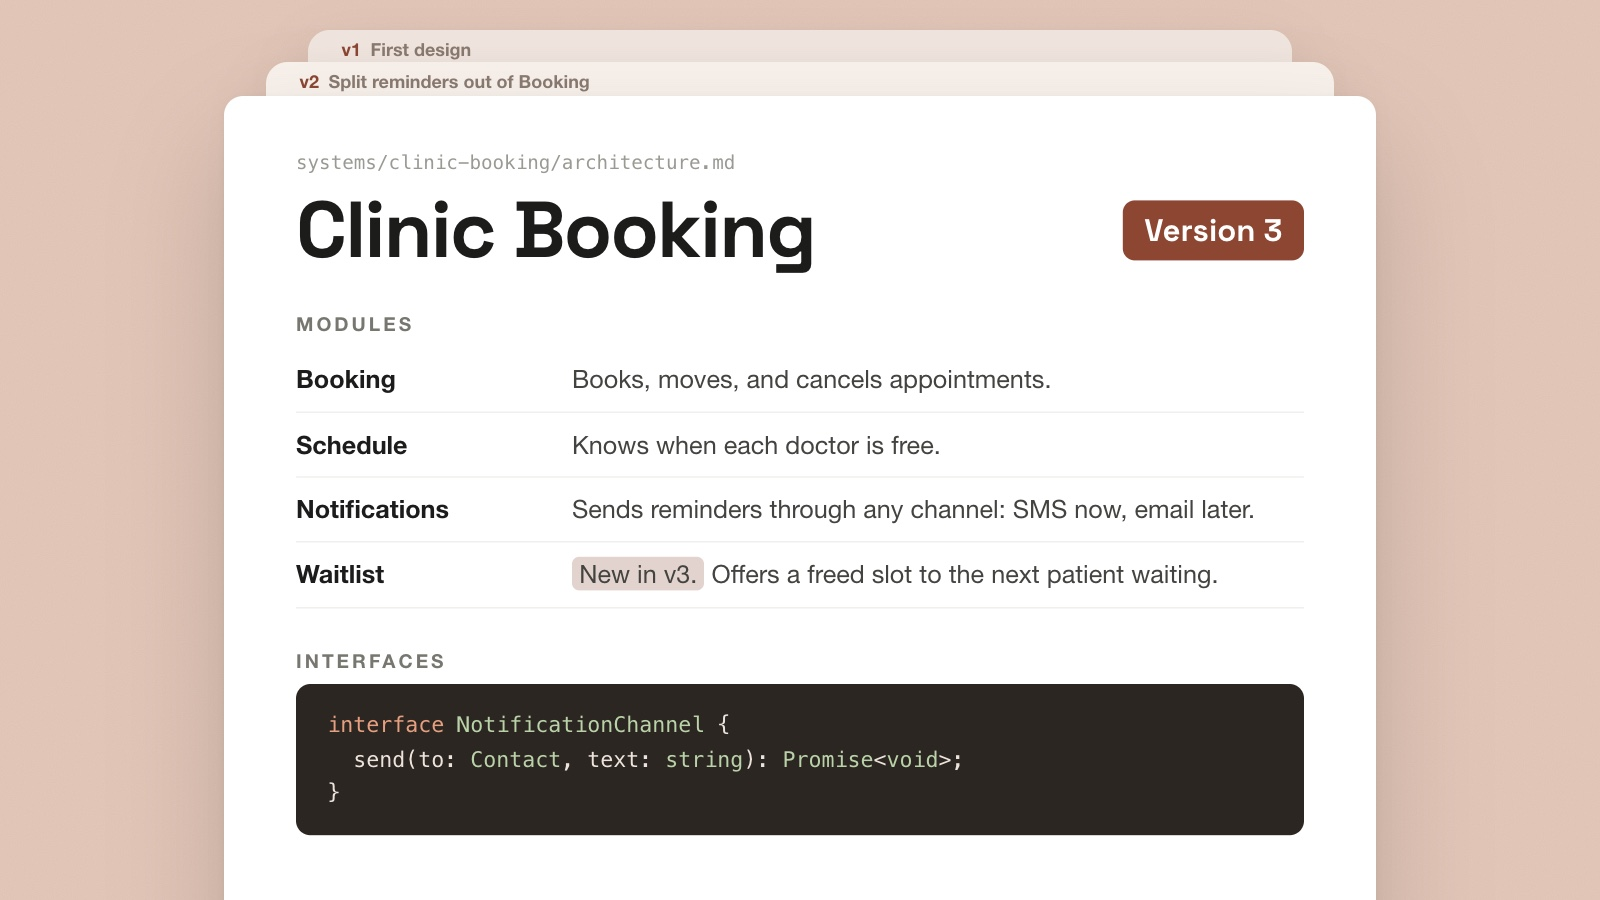
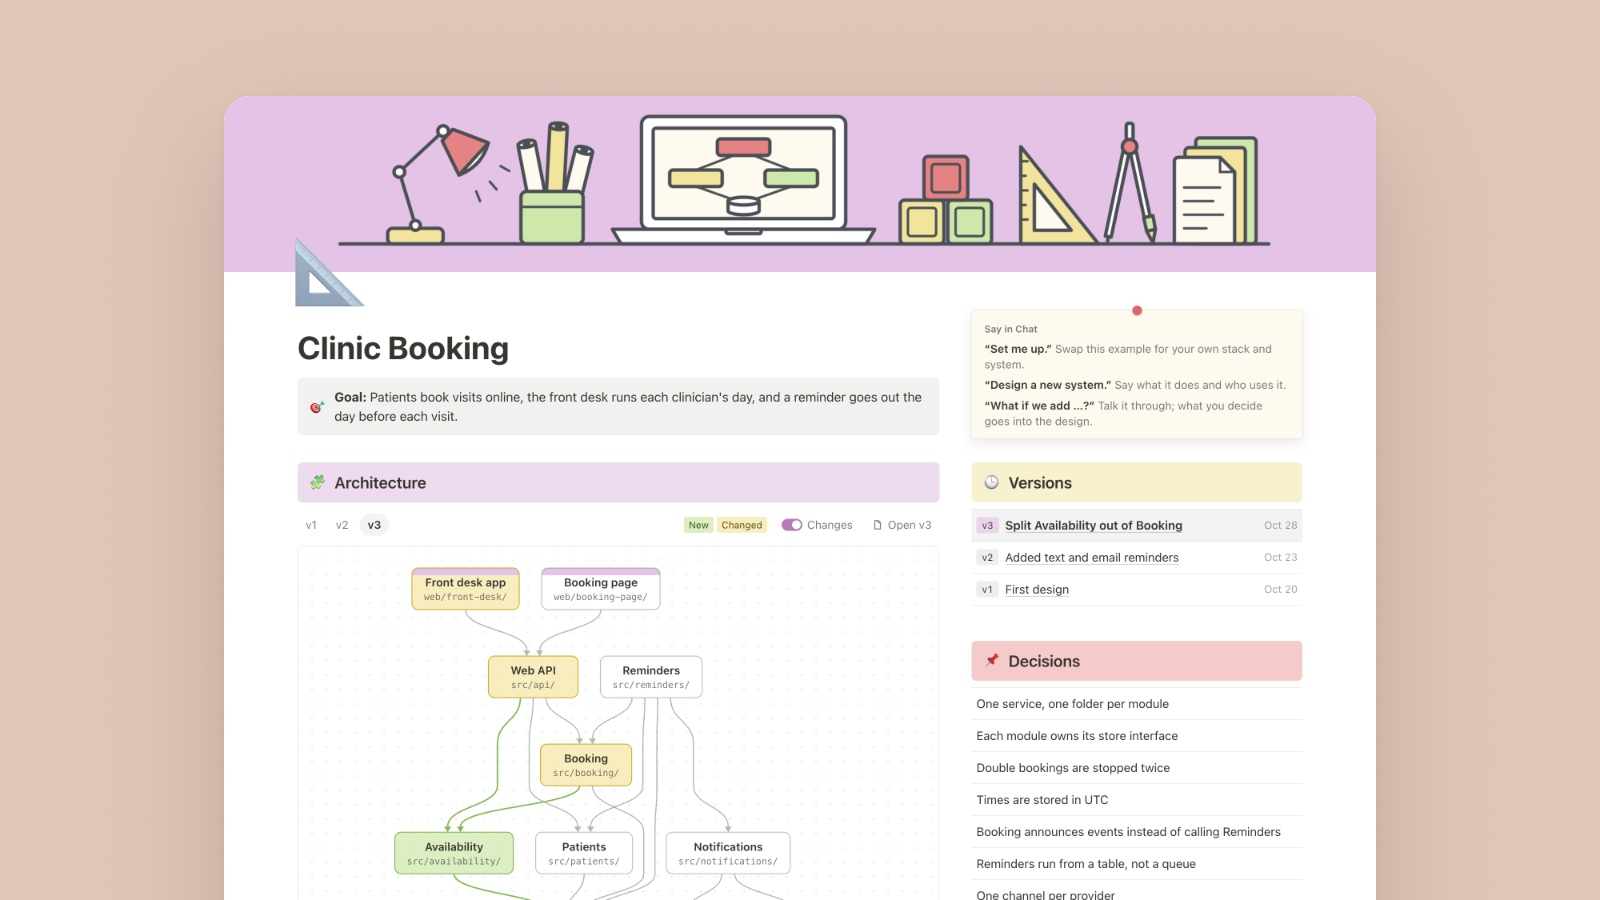
Show Software Architect's dashboard as its cover
The template now has a dashboard that draws each system as an
architecture diagram. The cover is a screenshot of it, with the example's
version 3, and the introduction says what the dashboard shows. Its banner
color, orchid, is recorded in the covers table.

diff --git a/covers/software-architect.html b/covers/software-architect.html
@@ -4,42 +4,13 @@
 <meta charset="utf-8">
 <link rel="stylesheet" href="cover.css">
 <style>
-  /* Earlier versions stack behind the current one, each peeking out as a tab. */
-  .page { position: absolute; left: 50%; height: 760px; transform: translateX(-50%) scale(1.2); transform-origin: top center;
-    border-radius: 18px; padding: 7px 28px; font-size: 15px; font-weight: 600; color: #8a7a70;
-    box-shadow: 0 20px 50px rgba(30, 30, 24, 0.12); }
-  .page.v1 { top: 30px; width: 820px; background: #f1e6df; }
-  .page.v2 { top: 62px; width: 890px; background: #f8f1ec; }
-  .page b { color: var(--deep); margin-right: 8px; }
-  .thing { width: 960px; border-radius: 16px; padding: 46px 60px; }
-  .path { font-family: Menlo, monospace; font-size: 16px; color: #9a9a92; }
-  .title { display: flex; align-items: center; justify-content: space-between; margin-top: 12px; }
-  h1 { font-family: "Space Grotesk", sans-serif; font-weight: 700; font-size: 66px; letter-spacing: -1.5px; line-height: 1.05; }
-  .version { background: var(--deep); color: #fff; font-family: "Space Grotesk", sans-serif; font-weight: 700; font-size: 26px; padding: 8px 18px; border-radius: 10px; }
-  h2 { font-size: 16px; font-weight: 700; letter-spacing: 2.5px; text-transform: uppercase; color: #77776f; margin: 34px 0 10px; }
-  .module { display: grid; grid-template-columns: 210px 1fr; gap: 20px; padding: 12px 0; border-bottom: 1.5px solid #ecebe6; font-size: 21px; line-height: 1.4; color: #44443f; }
-  .module b { color: #1c1c1a; }
-  pre { margin-top: 6px; background: #2c2622; color: #ece4dc; border-radius: 12px; padding: 20px 26px; font-family: Menlo, monospace; font-size: 18px; line-height: 1.6; }
-  .k { color: #e7a07f; }
-  .t { color: #b9d3a8; }
+  /* The thing is the architecture dashboard itself: a real screenshot at 1440 × 1080, taken at 2x. */
+  .thing { width: 960px; min-height: 0; overflow: hidden; }
+  .thing img { display: block; width: 100%; }
 </style>
 </head>
 <body class="clay">
   <div class="grain"></div>
-  <div class="page v1"><b>v1</b>First design</div>
-  <div class="page v2"><b>v2</b>Split reminders out of Booking</div>
-  <div class="thing">
-    <div class="path">systems/clinic-booking/architecture.md</div>
-    <div class="title"><h1>Clinic Booking</h1><span class="version">Version 3</span></div>
-    <h2>Modules</h2>
-    <div class="module"><b>Booking</b><span>Books, moves, and cancels appointments.</span></div>
-    <div class="module"><b>Schedule</b><span>Knows when each doctor is free.</span></div>
-    <div class="module"><b>Notifications</b><span>Sends reminders through any channel: SMS now, email later.</span></div>
-    <div class="module"><b>Waitlist</b><span><mark>New in v3.</mark> Offers a freed slot to the next patient waiting.</span></div>
-    <h2>Interfaces</h2>
-<pre><span class="k">interface</span> <span class="t">NotificationChannel</span> {
-  send(to: <span class="t">Contact</span>, text: <span class="t">string</span>): <span class="t">Promise</span>&lt;<span class="t">void</span>&gt;;
-}</pre>
-  </div>
+  <div class="thing"><img src="software-architect.png" alt=""></div>
 </body>
 </html>

diff --git a/covers/README.md b/covers/README.md
@@ -21,5 +21,5 @@ sips -s format jpeg -s formatOptions 90 cover.png --out wikis/<id>/screenshots/c
 | paper-tracker-for-industry | violet, weekly digest | — |
 | llm-wiki-for-papers | green, screenshot of the wiki's dashboard: topics, papers, and progress | blue `#a6cbe8` |
 | poc-deck-builder | blue, results slide with each success criterion against its target | — |
-| software-architect | clay, architecture doc with its earlier versions stacked behind | — |
+| software-architect | clay, screenshot of the architecture dashboard: the diagram, versions, and decisions | orchid `#e4c3e6` |
 | workout-tracker | violet, screenshot of the tracker page with the first week done | teal `#b4e0db` |
